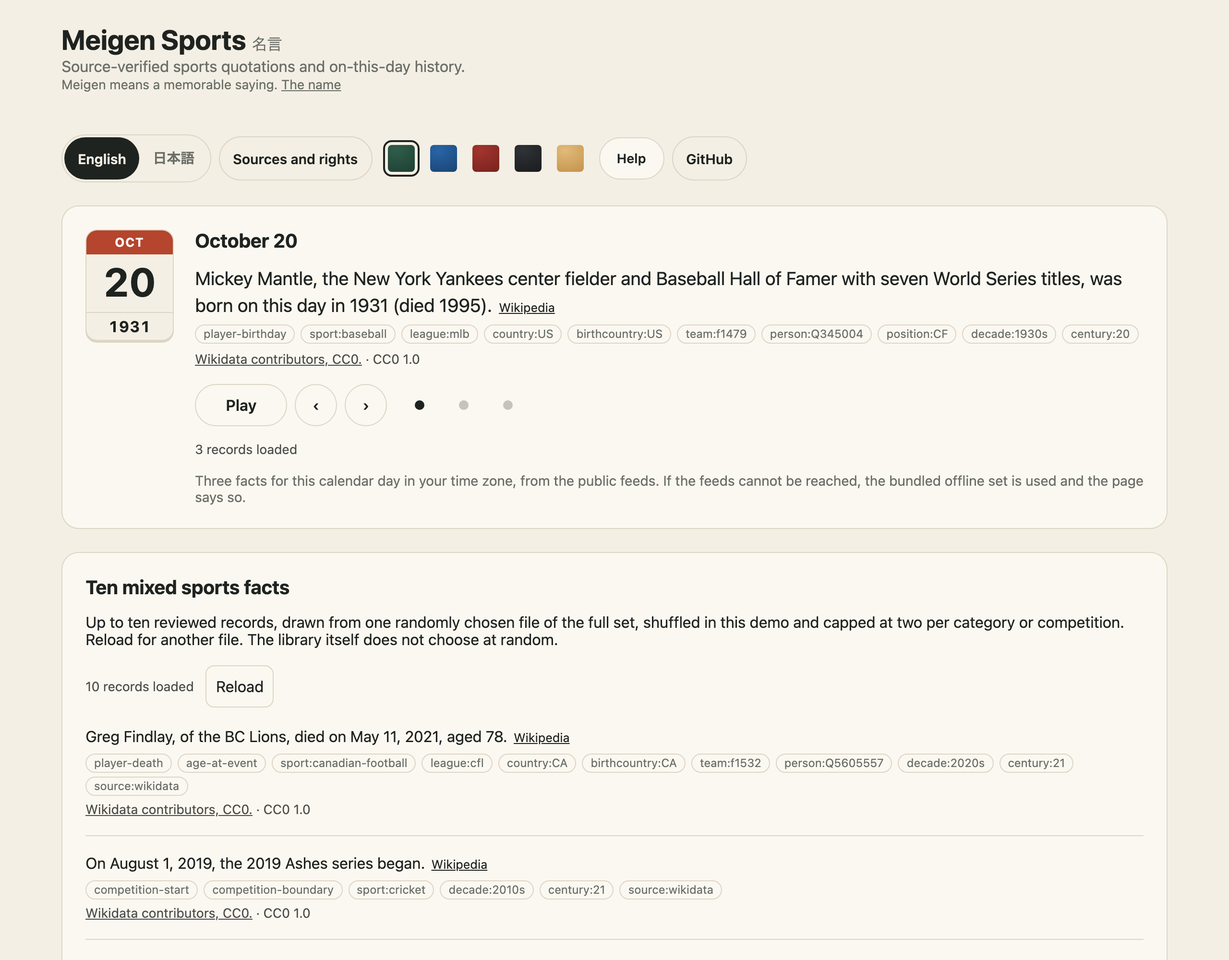
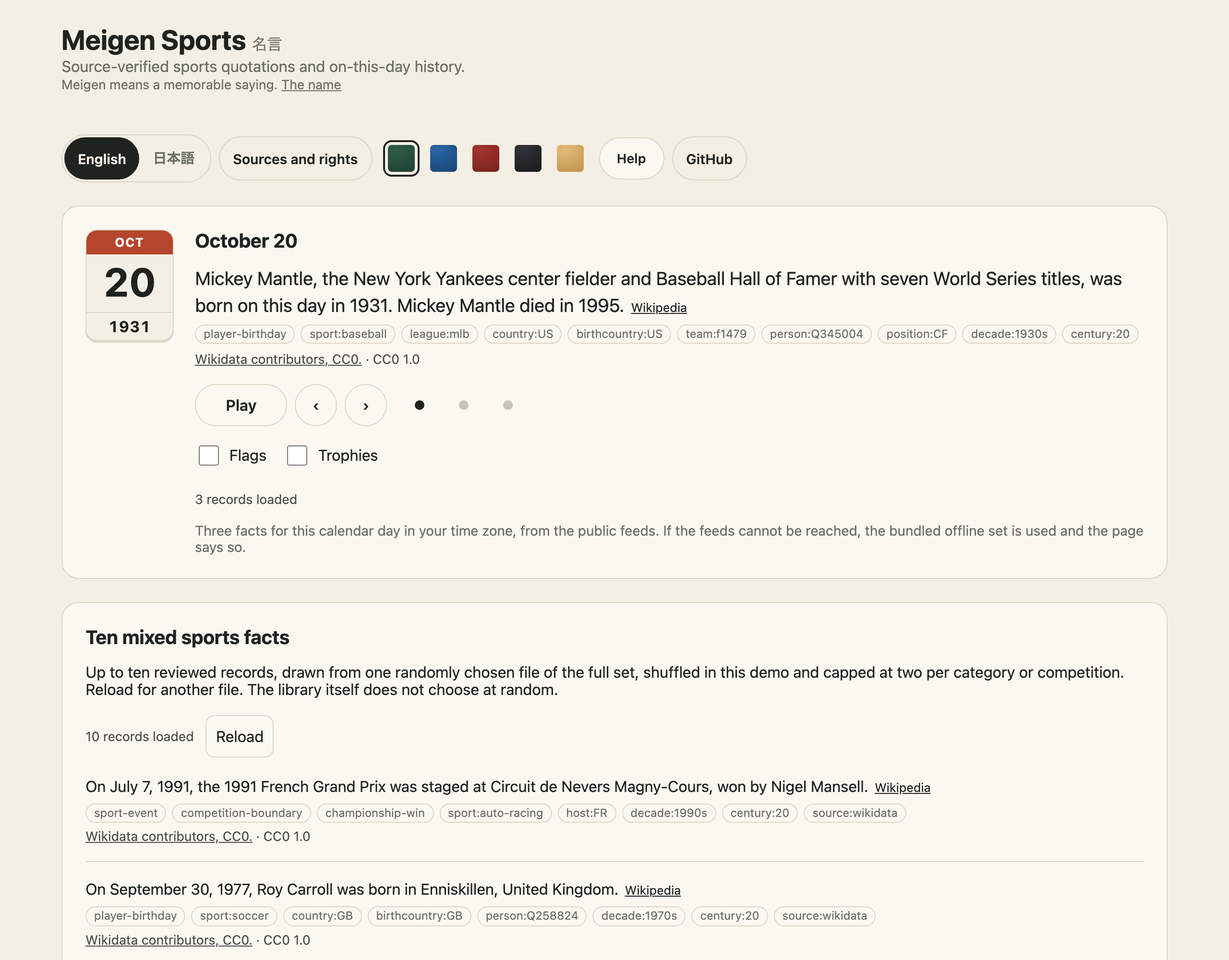
feat(demo): flags and trophies beside a fact
Two switches on the card, kept in the address, draw the flag of the fact's country where the data says it is unambiguous and the very trophy where the emblem set has a likeness. Both packages are devDependencies of the demo.

Changed region(s): [[0.0625, 0.465, 0.9375, 0.992], [0.3125, 0.31, 0.5625, 0.341]]

diff --git a/scripts/page.ts b/scripts/page.ts
@@ -4,8 +4,8 @@ const id = "meigen-sports";
 const latest = JSON.parse(readFileSync(new URL("../data/v1/latest.json", import.meta.url), "utf8")) as { factRecords: number; offlineRecords: number };
 const facts = latest.factRecords.toLocaleString("en-US"), offline = latest.offlineRecords.toLocaleString("en-US");
 export const WORDS = {
- en: { pitch: "Source-verified sports quotations and on-this-day history.", name: "Meigen means a memorable saying.", nameLink: "The name", foot: "MIT code. Source data retains its own rights and attribution.", heading: "Words and moments from sporting history", intro: "Choose a day and a sport. Explore verified historical passages and original captions based on open sporting facts.", sourceNote: `All ${facts} on-this-day facts load from the public feeds on GitHub Pages as each view needs them, and they cover every calendar day. The package also bundles an offline set of ${offline} of the best facts, three to five for every day, so "today" works with no network. Source text is English. Coverage gaps are shown honestly; no modern quotation is invented or silently licensed.`, todayIntro: `Three facts for this calendar day in your time zone, from the public feeds. If the feeds cannot be reached, the bundled offline set is used and the page says so.`, offlineNotice: `The public feeds could not be reached, so the bundled offline set ({n} facts) is shown.`, todayFew: `There are fewer than three facts for this day.`, todayPause: "Pause", todayPlay: "Play", todayNext: "Next fact", todayPrev: "Previous fact", todayDots: "Facts for this day", todayDot: "Fact {n}", date: "Calendar date", advancedFilters: "Filter by source and record type", includeSource: "Include source", excludeSource: "Exclude source", allSources: "All sources", includeType: "Include record type", excludeType: "Exclude record type", allTypes: "All types", none: "None", sport: "Sport", allSports: "All sports", mode: "Data source", bundled: `Bundled offline set`, staticFiles: `Public feeds (full set)`, find: "Find", quoteHeading: "A quotation for this date", historyHeading: "On this day", useHeading: "Use the same data in your project", useText: "Pure selectors take a date as an argument. The offline set is bundled in the package; the full set is static files served by GitHub, so readers need no database key, but those files need a network.", manifest: "Feed manifest", download: `Download the offline set`, sources: "Sources and rights", emptyQuote: "No verified quotation matches this sport in the starter collection.", emptyHistory: "No exact-day historical fact is available for this selection yet.", error: `The feed could not be loaded. Try the bundled offline set.`, results: "records loaded", randomHeading: "Ten mixed sports facts", randomIntro: `Up to ten reviewed records, drawn from one randomly chosen file of the full set, shuffled in this demo and capped at two per category or competition. Reload for another file. The library itself does not choose at random.`, randomReload: "Reload", randomError: "The local feed could not be loaded.", favHeading: "My favourites", favIntro: "Combine sport, league, history tag, country, decade, award, honour and years, a club or a person picked by name, and the day above. A fact must match every choice, and each choice is in the address, so the view can be sent.", favLeague: "League", favCategory: "History tag", favFrom: "From year", favTo: "To year", favTeam: "Team franchise id", favPlayer: "Player id", favFind: "Show favourites", favEmpty: "No sourced fact matches these filters yet.", favAllTags: "All tags", favAny: "Any", favCountry: "Country", favDecade: "Decade", favAward: "Award or trophy", favHonour: "Honour", favTeamName: "Club", favPerson: "Person", favOnlyDay: "Only the day chosen above", favSearchTeam: "Type a club's name", favSearchPerson: "Type a first or last name", favShown: "Showing {m} of {n}", wikipedia: "Wikipedia", wikipediaEn: "Wikipedia", wikidata: "Wikidata", "honour-award-winner": "Award winner", "honour-champion": "Champion", "honour-hall-of-fame": "Hall of Famer", eventsHeading: "The day's events, across sports", eventsIntro: "Competitions that began or ended on the chosen day, and events held on it, up to forty, at most three of one sport, from Wikidata (CC0), with the place and the winner where Wikidata states them. Choosing a sport above keeps only its events.", peopleHeading: "The day's people, across sports", peopleIntro: "Births and deaths of sports people on the chosen day, up to forty, at most three of one sport, from Wikidata (CC0). Choosing a sport above keeps only its people.", showcaseHeading: "Death anniversaries and NHL career records", showcaseIntro: "Birthdays of deceased people use anniversary wording. Missing a death date never means someone is living, so the feed never says “turns 70”. NHL career goal and assist records are derived from DS1 statistics only when the source licence is public; nhl_api rows stay unpublished.", original: "Original source", tennis: "Tennis", boxing: "Boxing", wrestling: "Wrestling", "professional-wrestling": "Professional wrestling", soccer: "Soccer", cricket: "Cricket", baseball: "Baseball", basketball: "Basketball", "american-football": "American football", "ice-hockey": "Ice hockey", "multi-sport": "Olympic and multi-sport events", athletics: "Athletics" },
- ja: { pitch: "出典を確認したスポーツの引用と、過去の今日の出来事。", name: "名言は、心に残る優れた言葉を意味します。", nameLink: "名前について", foot: "コードはMITライセンスです。データには各出典の権利と表示条件が適用されます。", heading: "スポーツの歴史を言葉と出来事から", intro: "日付と競技を選び、出典を確認した昔の文章や、公開された事実に基づく出来事を探せます。", sourceNote: `「過去の今日」の事実${facts}件はすべて、GitHub Pagesの公開フィードから画面ごとに必要な分だけ読み込み、すべての日をカバーします。パッケージには、ネットワークなしでも「今日」が動くよう、各日3〜5件の厳選した事実${offline}件も同梱しています。原文は英語で表示します。未収録の日はそのまま示し、現代の発言を創作したり、権利を確認しないまま使ったりしません。`, todayIntro: `お使いの地域の今日の日付について、公開フィードから事実を最大3件示します。フィードに接続できないときは同梱のオフライン版を使い、その旨を表示します。`, offlineNotice: `公開フィードに接続できなかったため、同梱のオフライン版（{n}件）を表示しています。`, todayFew: `この日の事実は3件未満です。`, todayPause: "一時停止", todayPlay: "再生", todayNext: "次の出来事", todayPrev: "前の出来事", todayDots: "この日の出来事", todayDot: "{n}件目", date: "日付", advancedFilters: "出典と記録の種類で絞り込む", includeSource: "含める出典", excludeSource: "除外する出典", allSources: "すべての出典", includeType: "含める記録の種類", excludeType: "除外する記録の種類", allTypes: "すべての種類", none: "なし", sport: "競技", allSports: "すべての競技", mode: "データの取得方法", bundled: `同梱のオフライン版`, staticFiles: `公開フィード（全データ）`, find: "探す", quoteHeading: "この日付に選んだ言葉", historyHeading: "過去の今日", useHeading: "自分のプロジェクトで使う", useText: "日付を引数として渡します。オフライン版はパッケージに同梱されています。全データはGitHubが配信する静的ファイルで、データベースの鍵は不要ですが、ネットワークが必要です。", manifest: "データ一覧", download: `オフライン版を取得`, sources: "出典と権利", emptyQuote: "この競技に合う確認済みの引用は、初期データにまだありません。", emptyHistory: "この条件に合う、日付の確認できた出来事はまだありません。", error: `データを取得できませんでした。同梱のオフライン版をお試しください。`, results: "件を読み込みました", randomHeading: "混ぜたスポーツの記録を10件", randomIntro: `全データを分けたファイルから1つを無作為に選び、確認済みの記録を最大10件、この画面で混ぜて表示します。同じ種類や大会からは最大2件です。再読み込みで別のファイルから選び直します。ライブラリ自身は乱数を使いません。`, randomReload: "再読み込み", randomError: "同梱の公開データを取得できませんでした。", favHeading: "お気に入り", favIntro: "競技、リーグ、履歴タグ、国、年代、賞、栄誉、年のほか、名前で選んだチームや人物、上で選んだ日を組み合わせて絞り込めます。表示されるのは、すべての条件に合う事実だけです。選んだ条件はURLに残るので、この画面をそのまま共有できます。", favLeague: "リーグ", favCategory: "履歴タグ", favFrom: "開始年", favTo: "終了年", favTeam: "チームのフランチャイズ ID", favPlayer: "選手 ID", favFind: "お気に入りを見る", favEmpty: "この条件に合う、出典のある事実はまだありません。", favAllTags: "すべてのタグ", favAny: "指定なし", favCountry: "国", favDecade: "年代", favAward: "賞・トロフィー", favHonour: "栄誉", favTeamName: "チーム", favPerson: "人物", favOnlyDay: "上で選んだ日の出来事だけ", favSearchTeam: "チーム名を入力", favSearchPerson: "姓または名（英字）を入力", favShown: "{n}件中{m}件を表示", wikipedia: "ウィキペディア", wikipediaEn: "ウィキペディア（英語版）", wikidata: "ウィキデータ", "honour-award-winner": "受賞者", "honour-champion": "優勝経験者", "honour-hall-of-fame": "殿堂入り", eventsHeading: "この日の大会・試合（競技をまたいで）", eventsIntro: "選んだ日に始まった、または終わった大会と、その日に行われた試合・大会を、最大40件、同じ競技は3件まで表示します。出典は Wikidata（CC0）で、開催地と勝者は Wikidata に記載があるときだけ示します。上で競技を選ぶと、その競技のものだけを表示します。", peopleHeading: "この日の人物（競技をまたいで）", peopleIntro: "選んだ日に生まれた、または亡くなったスポーツ選手などを、最大40人、同じ競技は3人まで表示します。出典は Wikidata（CC0）です。上で競技を選ぶと、その競技の人物だけを表示します。", showcaseHeading: "死去の記念日と NHL の通算記録", showcaseIntro: "故人の誕生日は記念日の言い方です。死去日が無いことを存命とはせず、「70歳になる」とは言いません。NHL の通算得点・アシスト記録は、出典のライセンスが公開可能なときだけ DS1 の統計から導きます。nhl_api の行は公開しません。", original: "原文の出典", tennis: "テニス", boxing: "ボクシング", wrestling: "レスリング", "professional-wrestling": "プロレス", soccer: "サッカー", cricket: "クリケット", baseball: "野球", basketball: "バスケットボール", "american-football": "アメリカンフットボール", "ice-hockey": "アイスホッケー", "multi-sport": "五輪・総合競技大会", athletics: "陸上" },
+ en: { pitch: "Source-verified sports quotations and on-this-day history.", name: "Meigen means a memorable saying.", nameLink: "The name", foot: "MIT code. Source data retains its own rights and attribution.", heading: "Words and moments from sporting history", intro: "Choose a day and a sport. Explore verified historical passages and original captions based on open sporting facts.", sourceNote: `All ${facts} on-this-day facts load from the public feeds on GitHub Pages as each view needs them, and they cover every calendar day. The package also bundles an offline set of ${offline} of the best facts, three to five for every day, so "today" works with no network. Source text is English. Coverage gaps are shown honestly; no modern quotation is invented or silently licensed.`, todayIntro: `Three facts for this calendar day in your time zone, from the public feeds. If the feeds cannot be reached, the bundled offline set is used and the page says so.`, offlineNotice: `The public feeds could not be reached, so the bundled offline set ({n} facts) is shown.`, todayFew: `There are fewer than three facts for this day.`, todayPause: "Pause", todayPlay: "Play", todayNext: "Next fact", todayPrev: "Previous fact", todayDots: "Facts for this day", todayDot: "Fact {n}", date: "Calendar date", advancedFilters: "Filter by source and record type", includeSource: "Include source", excludeSource: "Exclude source", allSources: "All sources", includeType: "Include record type", excludeType: "Exclude record type", allTypes: "All types", none: "None", sport: "Sport", allSports: "All sports", mode: "Data source", bundled: `Bundled offline set`, staticFiles: `Public feeds (full set)`, find: "Find", quoteHeading: "A quotation for this date", historyHeading: "On this day", useHeading: "Use the same data in your project", useText: "Pure selectors take a date as an argument. The offline set is bundled in the package; the full set is static files served by GitHub, so readers need no database key, but those files need a network.", manifest: "Feed manifest", download: `Download the offline set`, sources: "Sources and rights", emptyQuote: "No verified quotation matches this sport in the starter collection.", emptyHistory: "No exact-day historical fact is available for this selection yet.", error: `The feed could not be loaded. Try the bundled offline set.`, results: "records loaded", randomHeading: "Ten mixed sports facts", randomIntro: `Up to ten reviewed records, drawn from one randomly chosen file of the full set, shuffled in this demo and capped at two per category or competition. Reload for another file. The library itself does not choose at random.`, randomReload: "Reload", randomError: "The local feed could not be loaded.", favHeading: "My favourites", favIntro: "Combine sport, league, history tag, country, decade, award, honour and years, a club or a person picked by name, and the day above. A fact must match every choice, and each choice is in the address, so the view can be sent.", favLeague: "League", favCategory: "History tag", favFrom: "From year", favTo: "To year", favTeam: "Team franchise id", favPlayer: "Player id", favFind: "Show favourites", favEmpty: "No sourced fact matches these filters yet.", favAllTags: "All tags", favAny: "Any", favCountry: "Country", favDecade: "Decade", favAward: "Award or trophy", favHonour: "Honour", favTeamName: "Club", favPerson: "Person", favOnlyDay: "Only the day chosen above", favSearchTeam: "Type a club's name", favSearchPerson: "Type a first or last name", favShown: "Showing {m} of {n}", optFlags: "Flags", optTrophies: "Trophies", wikipedia: "Wikipedia", wikipediaEn: "Wikipedia", wikidata: "Wikidata", "honour-award-winner": "Award winner", "honour-champion": "Champion", "honour-hall-of-fame": "Hall of Famer", eventsHeading: "The day's events, across sports", eventsIntro: "Competitions that began or ended on the chosen day, and events held on it, up to forty, at most three of one sport, from Wikidata (CC0), with the place and the winner where Wikidata states them. Choosing a sport above keeps only its events.", peopleHeading: "The day's people, across sports", peopleIntro: "Births and deaths of sports people on the chosen day, up to forty, at most three of one sport, from Wikidata (CC0). Choosing a sport above keeps only its people.", showcaseHeading: "Death anniversaries and NHL career records", showcaseIntro: "Birthdays of deceased people use anniversary wording. Missing a death date never means someone is living, so the feed never says “turns 70”. NHL career goal and assist records are derived from DS1 statistics only when the source licence is public; nhl_api rows stay unpublished.", original: "Original source", tennis: "Tennis", boxing: "Boxing", wrestling: "Wrestling", "professional-wrestling": "Professional wrestling", soccer: "Soccer", cricket: "Cricket", baseball: "Baseball", basketball: "Basketball", "american-football": "American football", "ice-hockey": "Ice hockey", "multi-sport": "Olympic and multi-sport events", athletics: "Athletics" },
+ ja: { pitch: "出典を確認したスポーツの引用と、過去の今日の出来事。", name: "名言は、心に残る優れた言葉を意味します。", nameLink: "名前について", foot: "コードはMITライセンスです。データには各出典の権利と表示条件が適用されます。", heading: "スポーツの歴史を言葉と出来事から", intro: "日付と競技を選び、出典を確認した昔の文章や、公開された事実に基づく出来事を探せます。", sourceNote: `「過去の今日」の事実${facts}件はすべて、GitHub Pagesの公開フィードから画面ごとに必要な分だけ読み込み、すべての日をカバーします。パッケージには、ネットワークなしでも「今日」が動くよう、各日3〜5件の厳選した事実${offline}件も同梱しています。原文は英語で表示します。未収録の日はそのまま示し、現代の発言を創作したり、権利を確認しないまま使ったりしません。`, todayIntro: `お使いの地域の今日の日付について、公開フィードから事実を最大3件示します。フィードに接続できないときは同梱のオフライン版を使い、その旨を表示します。`, offlineNotice: `公開フィードに接続できなかったため、同梱のオフライン版（{n}件）を表示しています。`, todayFew: `この日の事実は3件未満です。`, todayPause: "一時停止", todayPlay: "再生", todayNext: "次の出来事", todayPrev: "前の出来事", todayDots: "この日の出来事", todayDot: "{n}件目", date: "日付", advancedFilters: "出典と記録の種類で絞り込む", includeSource: "含める出典", excludeSource: "除外する出典", allSources: "すべての出典", includeType: "含める記録の種類", excludeType: "除外する記録の種類", allTypes: "すべての種類", none: "なし", sport: "競技", allSports: "すべての競技", mode: "データの取得方法", bundled: `同梱のオフライン版`, staticFiles: `公開フィード（全データ）`, find: "探す", quoteHeading: "この日付に選んだ言葉", historyHeading: "過去の今日", useHeading: "自分のプロジェクトで使う", useText: "日付を引数として渡します。オフライン版はパッケージに同梱されています。全データはGitHubが配信する静的ファイルで、データベースの鍵は不要ですが、ネットワークが必要です。", manifest: "データ一覧", download: `オフライン版を取得`, sources: "出典と権利", emptyQuote: "この競技に合う確認済みの引用は、初期データにまだありません。", emptyHistory: "この条件に合う、日付の確認できた出来事はまだありません。", error: `データを取得できませんでした。同梱のオフライン版をお試しください。`, results: "件を読み込みました", randomHeading: "混ぜたスポーツの記録を10件", randomIntro: `全データを分けたファイルから1つを無作為に選び、確認済みの記録を最大10件、この画面で混ぜて表示します。同じ種類や大会からは最大2件です。再読み込みで別のファイルから選び直します。ライブラリ自身は乱数を使いません。`, randomReload: "再読み込み", randomError: "同梱の公開データを取得できませんでした。", favHeading: "お気に入り", favIntro: "競技、リーグ、履歴タグ、国、年代、賞、栄誉、年のほか、名前で選んだチームや人物、上で選んだ日を組み合わせて絞り込めます。表示されるのは、すべての条件に合う事実だけです。選んだ条件はURLに残るので、この画面をそのまま共有できます。", favLeague: "リーグ", favCategory: "履歴タグ", favFrom: "開始年", favTo: "終了年", favTeam: "チームのフランチャイズ ID", favPlayer: "選手 ID", favFind: "お気に入りを見る", favEmpty: "この条件に合う、出典のある事実はまだありません。", favAllTags: "すべてのタグ", favAny: "指定なし", favCountry: "国", favDecade: "年代", favAward: "賞・トロフィー", favHonour: "栄誉", favTeamName: "チーム", favPerson: "人物", favOnlyDay: "上で選んだ日の出来事だけ", favSearchTeam: "チーム名を入力", favSearchPerson: "姓または名（英字）を入力", favShown: "{n}件中{m}件を表示", optFlags: "国旗", optTrophies: "トロフィー", wikipedia: "ウィキペディア", wikipediaEn: "ウィキペディア（英語版）", wikidata: "ウィキデータ", "honour-award-winner": "受賞者", "honour-champion": "優勝経験者", "honour-hall-of-fame": "殿堂入り", eventsHeading: "この日の大会・試合（競技をまたいで）", eventsIntro: "選んだ日に始まった、または終わった大会と、その日に行われた試合・大会を、最大40件、同じ競技は3件まで表示します。出典は Wikidata（CC0）で、開催地と勝者は Wikidata に記載があるときだけ示します。上で競技を選ぶと、その競技のものだけを表示します。", peopleHeading: "この日の人物（競技をまたいで）", peopleIntro: "選んだ日に生まれた、または亡くなったスポーツ選手などを、最大40人、同じ競技は3人まで表示します。出典は Wikidata（CC0）です。上で競技を選ぶと、その競技の人物だけを表示します。", showcaseHeading: "死去の記念日と NHL の通算記録", showcaseIntro: "故人の誕生日は記念日の言い方です。死去日が無いことを存命とはせず、「70歳になる」とは言いません。NHL の通算得点・アシスト記録は、出典のライセンスが公開可能なときだけ DS1 の統計から導きます。nhl_api の行は公開しません。", original: "原文の出典", tennis: "テニス", boxing: "ボクシング", wrestling: "レスリング", "professional-wrestling": "プロレス", soccer: "サッカー", cricket: "クリケット", baseball: "野球", basketball: "バスケットボール", "american-football": "アメリカンフットボール", "ice-hockey": "アイスホッケー", "multi-sport": "五輪・総合競技大会", athletics: "陸上" },
 };
 export function renderIndex() {
  return readFileSync(new URL("../demo/index.html", import.meta.url), "utf8")

diff --git a/demo/marks.ts b/demo/marks.ts
@@ -1,0 +1,82 @@
+import { flagCode } from "@johnmorrisdotca/hata";
+import { flagName } from "@johnmorrisdotca/hata/names";
+import { flagOf } from "../src/index.ts";
+import type { OnThisDayRecord } from "../src/schema.ts";
+import { TROPHY_STANLEY_CUP } from "@johnmorrisdotca/dougu-sports/trophy/stanley-cup";
+import { TROPHY_HART_TROPHY } from "@johnmorrisdotca/dougu-sports/trophy/hart-trophy";
+import { TROPHY_VEZINA_TROPHY } from "@johnmorrisdotca/dougu-sports/trophy/vezina-trophy";
+import { TROPHY_NORRIS_TROPHY } from "@johnmorrisdotca/dougu-sports/trophy/norris-trophy";
+import { TROPHY_CALDER_TROPHY } from "@johnmorrisdotca/dougu-sports/trophy/calder-trophy";
+import { TROPHY_ART_ROSS_TROPHY } from "@johnmorrisdotca/dougu-sports/trophy/art-ross-trophy";
+import { TROPHY_CONN_SMYTHE_TROPHY } from "@johnmorrisdotca/dougu-sports/trophy/conn-smythe-trophy";
+import { TROPHY_LADY_BYNG_TROPHY } from "@johnmorrisdotca/dougu-sports/trophy/lady-byng-trophy";
+import { TROPHY_SELKE_TROPHY } from "@johnmorrisdotca/dougu-sports/trophy/selke-trophy";
+import { TROPHY_JENNINGS_TROPHY } from "@johnmorrisdotca/dougu-sports/trophy/jennings-trophy";
+import { TROPHY_MASTERTON_TROPHY } from "@johnmorrisdotca/dougu-sports/trophy/masterton-trophy";
+import { TROPHY_KING_CLANCY_TROPHY } from "@johnmorrisdotca/dougu-sports/trophy/king-clancy-trophy";
+import { TROPHY_JACK_ADAMS_TROPHY } from "@johnmorrisdotca/dougu-sports/trophy/jack-adams-trophy";
+import { TROPHY_ROCKET_RICHARD_TROPHY } from "@johnmorrisdotca/dougu-sports/trophy/rocket-richard-trophy";
+import { TROPHY_TED_LINDSAY_AWARD } from "@johnmorrisdotca/dougu-sports/trophy/ted-lindsay-award";
+import { TROPHY_LOMBARDI_TROPHY } from "@johnmorrisdotca/dougu-sports/trophy/lombardi-trophy";
+import { TROPHY_LARRY_OBRIEN_TROPHY } from "@johnmorrisdotca/dougu-sports/trophy/larry-obrien-trophy";
+import { TROPHY_COMMISSIONERS_TROPHY } from "@johnmorrisdotca/dougu-sports/trophy/commissioners-trophy";
+import { TROPHY_GREY_CUP } from "@johnmorrisdotca/dougu-sports/trophy/grey-cup";
+import { TROPHY_CY_YOUNG_AWARD } from "@johnmorrisdotca/dougu-sports/trophy/cy-young-award";
+import { TROPHY_MLB_MVP_AWARD } from "@johnmorrisdotca/dougu-sports/trophy/mlb-mvp-award";
+import { TROPHY_SILVER_SLUGGER_AWARD } from "@johnmorrisdotca/dougu-sports/trophy/silver-slugger-award";
+import { TROPHY_WORLD_SERIES_MVP_TROPHY } from "@johnmorrisdotca/dougu-sports/trophy/world-series-mvp-trophy";
+import { TROPHY_OBRIEN_CUP } from "@johnmorrisdotca/dougu-sports/trophy/obrien-cup";
+import { TROPHY_GOLD_GLOVE_AWARD } from "@johnmorrisdotca/dougu-sports/trophy/gold-glove-award";
+import { TROPHY_CUP } from "@johnmorrisdotca/dougu-sports/trophy/cup";
+
+/**
+ * The demo's two small marks beside a fact: the flag of its country, only where the data says it is unambiguous (`flagOf`) and the flag set has one, and the
+ * trophy it is about (`trophy`, an id of the emblem set), drawn as that very trophy where the set has a likeness and as its plain cup where it has none.
+ * Both are the demo's own choice: the library holds a code and an id, and draws nothing. The packages are devDependencies of the demo, bundled into demo.js.
+ */
+const TROPHIES: Record<string, { svg: (options?: { size?: number; title?: string | false }) => string }> = {
+  "trophy:stanley-cup": TROPHY_STANLEY_CUP,
+  "trophy:hart-trophy": TROPHY_HART_TROPHY,
+  "trophy:vezina-trophy": TROPHY_VEZINA_TROPHY,
+  "trophy:norris-trophy": TROPHY_NORRIS_TROPHY,
+  "trophy:calder-trophy": TROPHY_CALDER_TROPHY,
+  "trophy:art-ross-trophy": TROPHY_ART_ROSS_TROPHY,
+  "trophy:conn-smythe-trophy": TROPHY_CONN_SMYTHE_TROPHY,
+  "trophy:lady-byng-trophy": TROPHY_LADY_BYNG_TROPHY,
+  "trophy:selke-trophy": TROPHY_SELKE_TROPHY,
+  "trophy:jennings-trophy": TROPHY_JENNINGS_TROPHY,
+  "trophy:masterton-trophy": TROPHY_MASTERTON_TROPHY,
+  "trophy:king-clancy-trophy": TROPHY_KING_CLANCY_TROPHY,
+  "trophy:jack-adams-trophy": TROPHY_JACK_ADAMS_TROPHY,
+  "trophy:rocket-richard-trophy": TROPHY_ROCKET_RICHARD_TROPHY,
+  "trophy:ted-lindsay-award": TROPHY_TED_LINDSAY_AWARD,
+  "trophy:lombardi-trophy": TROPHY_LOMBARDI_TROPHY,
+  "trophy:larry-obrien-trophy": TROPHY_LARRY_OBRIEN_TROPHY,
+  "trophy:commissioners-trophy": TROPHY_COMMISSIONERS_TROPHY,
+  "trophy:grey-cup": TROPHY_GREY_CUP,
+  "trophy:cy-young-award": TROPHY_CY_YOUNG_AWARD,
+  "trophy:mlb-mvp-award": TROPHY_MLB_MVP_AWARD,
+  "trophy:silver-slugger-award": TROPHY_SILVER_SLUGGER_AWARD,
+  "trophy:world-series-mvp-trophy": TROPHY_WORLD_SERIES_MVP_TROPHY,
+  "trophy:obrien-cup": TROPHY_OBRIEN_CUP,
+  "trophy:gold-glove-award": TROPHY_GOLD_GLOVE_AWARD,
+  "trophy:cup": TROPHY_CUP,
+};
+
+export interface FlagMark { readonly code: string; readonly src: string; readonly name: string }
+
+/** The flag of a fact, a file under `flags/` (copied from Hata by scripts/site.ts), or null when the fact has no unambiguous flag or Hata has none for it. */
+export function flagMark(fact: OnThisDayRecord, lang: "en" | "ja"): FlagMark | null {
+  const wanted = flagOf(fact);
+  const code = wanted ? flagCode(wanted) : null;
+  if (!code) return null;
+  return { code, src: `flags/${code.toLowerCase()}.svg`, name: flagName(code, lang) ?? code };
+}
+
+/** The trophy of a fact as SVG, or null when it has none; `exact` says whether it is that trophy's own likeness (false: the plain cup). */
+export function trophyMark(fact: OnThisDayRecord, size = 34): { svg: string; exact: boolean } | null {
+  const id = fact.trophy;
+  const emblem = id ? TROPHIES[id] : undefined;
+  if (!id || !emblem) return null;
+  return { svg: emblem.svg({ size }), exact: id !== "trophy:cup" };
+}

diff --git a/e2e/marks.demo.ts b/e2e/marks.demo.ts
@@ -1,0 +1,79 @@
+// The flag and the trophy beside a fact: off until the reader asks (two switches on the card, kept in the address), clickable while the card turns, drawn from the data's own
+// code and id, in the reader's language, and never a flag where the data does not say one.
+import { expect, test, type Page } from "@playwright/test";
+
+const GRETZKY = "person=Q209518&pname=Wayne%20Gretzky";
+const inView = (page: Page, selector: string) =>
+  page.evaluate((query) => {
+    const box = document.querySelector(query)?.getBoundingClientRect();
+    return box !== undefined && box.y >= 0 && box.y + Math.min(box.height, 60) <= window.innerHeight;
+  }, selector);
+
+test("the switches are in the first screen and off at first; the address turns each on", async ({ page }) => {
+  await page.goto(`/?lang=en&${GRETZKY}`);
+  await expect(page.locator("#today-facts .record")).toHaveCount(3);
+  expect(await inView(page, '[data-testid="today-options"]')).toBe(true);
+  await expect(page.locator("#opt-flags")).not.toBeChecked();
+  await expect(page.locator("#opt-trophies")).not.toBeChecked();
+  await expect(page.locator("#fav-facts [data-testid=flag]").first()).toBeHidden();
+  await page.goto(`/?lang=en&flags=1&trophies=1&${GRETZKY}`);
+  await expect(page.locator("#opt-flags")).toBeChecked();
+  await expect(page.locator("#opt-trophies")).toBeChecked();
+});
+
+test("Gretzky has Canada's flag, drawn from the data, and the Hart Trophy", async ({ page }) => {
+  const errors: string[] = [];
+  page.on("pageerror", (error) => errors.push(error.message));
+  await page.goto(`/?lang=en&flags=1&trophies=1&${GRETZKY}`);
+  const flag = page.locator("#fav-facts [data-testid=flag]").first();
+  await expect(flag).toBeVisible();
+  await expect(flag).toHaveAttribute("data-code", "CA");
+  await expect(flag).toHaveAttribute("src", "flags/ca.svg");
+  await expect(flag).toHaveAttribute("alt", "Canada");
+  await expect.poll(() => flag.evaluate((img: HTMLImageElement) => img.complete && img.naturalWidth > 0)).toBe(true);
+  const trophy = page.locator("#fav-facts [data-testid=trophy]").first();
+  await expect(trophy).toBeVisible();
+  await expect(trophy).toHaveAttribute("data-id", "trophy:hart-trophy");
+  await expect(trophy.locator("svg")).toBeVisible();
+  expect(errors).toEqual([]);
+  // In Japanese the flag is named in Japanese.
+  await page.goto(`/?lang=ja&flags=1&${GRETZKY}`);
+  await expect(page.locator("#fav-facts [data-testid=flag]").first()).toHaveAttribute("alt", "カナダ");
+});
+
+test("a trophy with no likeness is the plain cup, and a fact with no award has none", async ({ page }) => {
+  await page.goto("/?lang=en&trophies=1&award=nba-sixth-man-of-the-year-award");
+  await expect(page.locator("#fav-facts .record").first()).toBeVisible();
+  const trophies = page.locator("#fav-facts [data-testid=trophy]");
+  const ids = await trophies.evaluateAll((all) => all.map((el) => (el as HTMLElement).dataset.id));
+  expect(ids.length).toBeGreaterThan(0);
+  // A Sixth Man has no likeness in the set: his plain cup, or the title he won (a likeness) when he won one.
+  for (const id of ids) expect(["trophy:cup", "trophy:larry-obrien-trophy"]).toContain(id);
+  expect(ids).toContain("trophy:cup");
+  await expect(page.locator("#fav-facts [data-testid=trophy][data-id='trophy:cup']").first()).toHaveClass(/generic/);
+  // A game has a flag when its two teams are of one country, and no trophy.
+  await page.goto("/?lang=en&flags=1&trophies=1&tag=game-on-day");
+  await expect(page.locator("#fav-facts .record").first()).toBeVisible();
+  expect(await page.locator("#fav-facts [data-testid=trophy]").count()).toBe(0);
+});
+
+test.describe("a reader who has not asked for less motion", () => {
+test.use({ reducedMotion: "no-preference" });
+test("the switches work while the card turns, and the card keeps going", async ({ page }) => {
+  await page.goto("/?lang=en&gap=400&play=1");
+  await expect(page.locator("#today-facts .record")).toHaveCount(3);
+  await expect(page.locator('[data-testid="today-play"]')).toHaveAttribute("aria-pressed", "true");
+  const seen = new Set<number>();
+  const current = () => page.evaluate(() => [...document.querySelectorAll("#today-dots button")].findIndex((dot) => dot.getAttribute("aria-current") === "true"));
+  await page.locator("#opt-flags").check();
+  await expect(page).toHaveURL(/flags=1/);
+  await page.locator("#opt-trophies").check();
+  await expect(page).toHaveURL(/trophies=1/);
+  await expect(page.locator("html")).toHaveAttribute("data-flags", "on");
+  await expect.poll(async () => { seen.add(await current()); return seen.size; }, { timeout: 8000 }).toBe(3);
+  await expect(page.locator('[data-testid="today-play"]')).toHaveAttribute("aria-pressed", "true");
+  await page.locator("#opt-flags").uncheck();
+  await expect(page).not.toHaveURL(/flags=1/);
+  await expect(page.locator("html")).toHaveAttribute("data-flags", "off");
+});
+});

diff --git a/demo/demo.ts b/demo/demo.ts
@@ -3,6 +3,7 @@ import { quotes } from "../src/data/quotes.ts";
 import { OFFLINE_BUILD, offline } from "../src/data/offline.ts";
 import { loadFactDay, loadFactEventsDay, loadFactPeopleDay, loadFactShard, loadShard } from "../src/load.ts";
 import { startExplore } from "./explore.ts";
+import { flagMark, trophyMark } from "./marks.ts";
 import type { OnThisDayRecord } from "../src/schema.ts";
 import { pickVariedFacts } from "./variety.ts";
 import type { MeigenRecord } from "../src/types.ts";
@@ -94,6 +95,14 @@ function drawFacts(box: HTMLElement, records: readonly OnThisDayRecord[], asOf?:
     const article = document.createElement("article"); article.className = "record";
     if (fact.eventDate) article.dataset.year = fact.eventDate.slice(0, 4);
     const p = document.createElement("p");
+    // The flag of its country (where the data says it is unambiguous) and the trophy it is about: drawn always, shown by the two switches, so a switch redraws nothing.
+    const flag = flagMark(fact, locale), trophy = trophyMark(fact);
+    if (flag || trophy) {
+      const marks = document.createElement("span"); marks.className = "marks";
+      if (flag) { const img = document.createElement("img"); img.className = "mark-flag"; img.src = flag.src; img.alt = flag.name; img.title = flag.name; img.loading = "lazy"; img.dataset.testid = "flag"; img.dataset.code = flag.code; marks.append(img); }
+      if (trophy) { const span = document.createElement("span"); span.className = trophy.exact ? "mark-trophy" : "mark-trophy generic"; span.innerHTML = trophy.svg; span.dataset.testid = "trophy"; span.dataset.id = fact.trophy ?? ""; marks.append(span); }
+      p.append(marks);
+    }
     p.append(text);
     // A small link to the article about its person or event, in the reader's language (English, then Wikidata where there is none); a fact with no item has none.
     const url = wikipediaUrl(fact, locale);
@@ -132,6 +141,21 @@ const todayDots = document.querySelector<HTMLElement>("#today-dots")!;
 const leafMonth = document.querySelector<HTMLElement>("#leaf-month")!;
 const leafDay = document.querySelector<HTMLElement>("#leaf-day")!;
 const leafYear = document.querySelector<HTMLElement>("#leaf-year")!;
+// Flags and trophies beside the facts: two switches on the card, kept in the address (`?flags=1&trophies=1`), clickable while the card turns.
+const optFlags = document.querySelector<HTMLInputElement>("#opt-flags")!;
+const optTrophies = document.querySelector<HTMLInputElement>("#opt-trophies")!;
+optFlags.checked = addressed.get("flags") === "1"; optTrophies.checked = addressed.get("trophies") === "1";
+function applyMarks(keep: boolean) {
+  document.documentElement.dataset.flags = optFlags.checked ? "on" : "off";
+  document.documentElement.dataset.trophies = optTrophies.checked ? "on" : "off";
+  if (!keep) return;
+  const query = new URLSearchParams(location.search);
+  for (const [key, on] of [["flags", optFlags.checked], ["trophies", optTrophies.checked]] as const) { if (on) query.set(key, "1"); else query.delete(key); }
+  try { history.replaceState(null, "", `${location.pathname}${query.size ? `?${query}` : ""}${location.hash}`); } catch { /* the address stays as it is */ }
+}
+applyMarks(false);
+optFlags.addEventListener("change", () => applyMarks(true));
+optTrophies.addEventListener("change", () => applyMarks(true));
 let todayIndex = Math.max(0, Number.parseInt(addressed.get("fact") ?? "0", 10) || 0);
 let todayPlaying = !reducedMotion.matches && !addressed.has("fact") && addressed.get("play") === "1";
 /** True while the mouse is over the card: it plays, and leaving stops it. */

diff --git a/demo/index.html b/demo/index.html
@@ -2,7 +2,7 @@
 <html lang="en"><head><!--family:head--><link rel="stylesheet" href="family.css"><link rel="stylesheet" href="site.css"></head>
 <body><main><!--family:header--><!--family:unreviewed-->
 <p id="feed-note" class="status" role="status" aria-live="polite"></p>
-<section class="panel today-panel today-card" aria-labelledby="today-heading"><div class="leaf" aria-hidden="true"><span class="leaf-month" id="leaf-month"></span><span class="leaf-day" id="leaf-day"></span><span class="leaf-year" id="leaf-year" data-testid="leaf-year"></span></div><div class="today-main"><h2 id="today-heading"></h2><div id="today-facts" class="today-facts" data-testid="today-facts"></div><div class="today-bar" data-testid="today-bar"><button type="button" id="today-play" data-testid="today-play" aria-pressed="false"></button><button type="button" id="today-prev" data-testid="today-prev" data-say-label="todayPrev"></button><button type="button" id="today-next" data-testid="today-next" data-say-label="todayNext"></button><span id="today-dots" class="today-dots" role="group" data-say-label="todayDots"></span></div><p id="today-status" class="status" role="status" aria-live="polite"></p><p class="today-intro" data-say="todayIntro"></p></div></section>
+<section class="panel today-panel today-card" aria-labelledby="today-heading"><div class="leaf" aria-hidden="true"><span class="leaf-month" id="leaf-month"></span><span class="leaf-day" id="leaf-day"></span><span class="leaf-year" id="leaf-year" data-testid="leaf-year"></span></div><div class="today-main"><h2 id="today-heading"></h2><div id="today-facts" class="today-facts" data-testid="today-facts"></div><div class="today-bar" data-testid="today-bar"><button type="button" id="today-play" data-testid="today-play" aria-pressed="false"></button><button type="button" id="today-prev" data-testid="today-prev" data-say-label="todayPrev"></button><button type="button" id="today-next" data-testid="today-next" data-say-label="todayNext"></button><span id="today-dots" class="today-dots" role="group" data-say-label="todayDots"></span></div><div class="today-options" data-testid="today-options"><label><input type="checkbox" id="opt-flags"><span data-say="optFlags"></span></label><label><input type="checkbox" id="opt-trophies"><span data-say="optTrophies"></span></label></div><p id="today-status" class="status" role="status" aria-live="polite"></p><p class="today-intro" data-say="todayIntro"></p></div></section>
 <section class="panel random-panel"><h2 data-say="randomHeading"></h2><p data-say="randomIntro"></p>
 <div class="fam-row random-actions"><p id="random-status" class="status" role="status" aria-live="polite"></p><button type="button" id="random-reload" data-say="randomReload"></button></div>
 <div id="random-facts"></div></section>

diff --git a/scripts/site.ts b/scripts/site.ts
@@ -1,10 +1,21 @@
-import { cpSync, mkdirSync, rmSync, writeFileSync, readFileSync } from "node:fs";
+import { cpSync, existsSync, mkdirSync, rmSync, writeFileSync, readFileSync } from "node:fs";
 import { build } from "esbuild";
 import { renderIndex, renderSources } from "./page.ts";
 rmSync("site", { recursive: true, force: true }); mkdirSync("site", { recursive: true });
 writeFileSync("site/index.html", renderIndex());
 for (const file of ["family.css", "site.css"]) cpSync(`demo/${file}`, `site/${file}`);
 cpSync("data", "site/data", { recursive: true }); cpSync("LICENSES", "site/LICENSES", { recursive: true });
+// The flags the demo draws beside a fact (`?flags=1`): Hata's own SVG files, for every country the facts name, and Hata's notice with them.
+mkdirSync("site/flags", { recursive: true });
+const hata = await import("@johnmorrisdotca/hata");
+const vocabulary = JSON.parse(readFileSync("data/v1/0.1.0/facts/index/vocabulary.json", "utf8")) as { countries: Record<string, number> };
+const wanted = new Set<string>();
+for (const code of [...Object.keys(vocabulary.countries), "GB-ENG", "GB-SCT", "GB-WLS"]) { const own = hata.flagCode(code); if (own) wanted.add(own.toLowerCase()); }
+let copied = 0;
+for (const code of wanted) if (existsSync(`node_modules/@johnmorrisdotca/hata/dist/svg/${code}.svg`)) { cpSync(`node_modules/@johnmorrisdotca/hata/dist/svg/${code}.svg`, `site/flags/${code}.svg`); copied += 1; }
+cpSync("node_modules/@johnmorrisdotca/hata/NOTICE.md", "site/flags/NOTICE.md");
+cpSync("node_modules/@johnmorrisdotca/hata/LICENSE", "site/flags/LICENSE");
+console.log(`Copied ${copied} flags from Hata.`);
 writeFileSync("site/.nojekyll", "");
 writeFileSync("site/sources.html", renderSources(readFileSync("NOTICE.md", "utf8")));
 await build({ entryPoints: ["demo/demo.ts"], outfile: "site/demo.js", bundle: true, format: "esm", target: "es2022", minify: true });

diff --git a/demo/site.css b/demo/site.css
@@ -40,3 +40,16 @@
 @media(max-width:680px){.filter-grid{grid-template-columns:minmax(0,1fr)}.fav-panel select,.feed-filters select{width:100%}}
 .today-facts .tags{flex-wrap:nowrap;overflow-x:auto;scrollbar-width:thin;padding-bottom:2px}.today-facts .tag{white-space:nowrap;flex:none}
 .fav-panel select,.feed-filters select{width:100%}.filter-grid .fam-row>label{width:100%}
+/* 0.10.0: the flag and the trophy beside a fact, shown by two switches on the card. */
+.marks{display:inline-flex;align-items:center;gap:.5em;margin-right:.6em;vertical-align:middle}
+.mark-flag{height:1.05em;width:auto;max-width:1.9em;border-radius:2px;box-shadow:0 0 0 1px var(--rule);object-fit:contain}
+.mark-trophy{display:inline-flex;width:1.9em;height:1.9em;vertical-align:middle}.mark-trophy svg{width:100%;height:100%}
+.mark-trophy.generic{opacity:.85}
+html:not([data-flags="on"]) .mark-flag{display:none}
+html:not([data-trophies="on"]) .mark-trophy{display:none}
+html:not([data-flags="on"]):not([data-trophies="on"]) .marks{display:none}
+html[data-flags="on"]:not([data-trophies="on"]) .marks:not(:has(.mark-flag)),html[data-trophies="on"]:not([data-flags="on"]) .marks:not(:has(.mark-trophy)){display:none}
+.today-options{display:flex;flex-wrap:wrap;gap:4px 18px;margin-top:8px}
+.today-options label{display:inline-flex;align-items:center;gap:8px;min-height:44px;cursor:pointer}
+.today-options input{width:1.3em;height:1.3em;min-height:0;accent-color:var(--ink)}
+.today-facts .record p:first-child .marks{margin-right:.6em}

diff --git a/scripts/dev.ts b/scripts/dev.ts
@@ -4,7 +4,7 @@ import { extname, resolve, sep } from "node:path";
 import process from "node:process";
 const port = Number(process.env.PORT ?? 7400); if (!Number.isInteger(port) || port < 7400 || port > 7499) throw new Error("Port must be in 7400–7499");
 const root = resolve("site");
-const types: Record<string, string> = { ".html": "text/html; charset=utf-8", ".js": "text/javascript", ".css": "text/css", ".json": "application/json", ".txt": "text/plain" };
+const types: Record<string, string> = { ".html": "text/html; charset=utf-8", ".js": "text/javascript", ".css": "text/css", ".json": "application/json", ".txt": "text/plain", ".svg": "image/svg+xml", ".md": "text/markdown; charset=utf-8" };
 createServer(async (req, res) => {
  try { const path = decodeURIComponent(new URL(req.url ?? "/", "http://localhost").pathname); const file = resolve(root, `.${path === "/" ? "/index.html" : path}`);
  if (!file.startsWith(`${root}${sep}`)) { res.writeHead(403).end(); return; }

diff --git a/scripts/screenshots.ts b/scripts/screenshots.ts
@@ -36,6 +36,15 @@ try {
   await page.screenshot({ path: `${output}/${shot.name}.png`, fullPage: false });
   await page.close();
  }
+ // The flag and the trophy beside a fact (`?flags=1&trophies=1`): Wayne Gretzky's facts in the favourites, in English, on a desk.
+ {
+  const page = await browser.newPage({ viewport: { width: 1280, height: 900 }, deviceScaleFactor: 2, reducedMotion: "reduce" });
+  await page.goto(`http://127.0.0.1:${port}/?lang=en&flags=1&trophies=1&country=CA&award=hart-memorial-trophy&decade=1960s`);
+  await page.locator("#fav-facts .record").first().waitFor();
+  await page.locator("#fav-facts [data-testid=flag]").first().evaluate((img: HTMLImageElement) => img.decode());
+  await page.locator("#fav-facts").first().screenshot({ path: `${output}/marks-desktop.png` });
+  await page.close();
+ }
  console.log(`Screenshots written to ${output}`);
 } finally {
  await browser?.close();

diff --git a/docs/demo.md b/docs/demo.md
@@ -1,6 +1,6 @@
 # The demo
 
-The demo is at <https://johnmorrisdotca.github.io/meigen-sports/>: today's facts as a calendar card, ten mixed facts, the showcase, favourites by sport, league, tag, years, team or player, and a date, sport and source picker for a quotation and the facts of any day, in English and Japanese. Its pictures:
+The demo is at <https://johnmorrisdotca.github.io/meigen-sports/>: today's facts as a calendar card, ten mixed facts, the showcase, favourites by sport, league, tag, country, decade, award, honour, years, a club or a person picked by name, and a day, with a flag and a trophy beside a fact when you ask (`?flags=1&trophies=1`), and a date, sport and source picker for a quotation and the facts of any day, in English and Japanese. Its pictures:
 
 <p align="center">
 <img alt="The Meigen Sports demo on a desk: a date, a sport, a quotation and on-this-day facts." src="images/hero-desktop.png" width="720">
@@ -16,3 +16,9 @@ The demo is at <https://johnmorrisdotca.github.io/meigen-sports/>: today's facts
 </td>
 </tr>
 </table>
+
+<p align="center">
+<img alt="Facts of Canada's Hart Memorial Trophy winners in the favourites, each with Canada's flag, the Hart Trophy and the facts' tags under the sentence." src="images/marks-desktop.png" width="720"><br><em>A flag and a trophy beside each fact (<code>?flags=1&amp;trophies=1</code>).</em>
+</p>
+
+Every choice in the favourites is in the address (`?country=RO&decade=1990s&person=Q209518&day=1`), so a view can be sent. The flag is drawn only where the data says it is unambiguous (`flagOf`) and [Hata](https://github.com/johnmorrisdotca/hata) has it; the trophy is the very trophy where [Dougu Sports](https://github.com/johnmorrisdotca/dougu-sports) has a likeness and its plain cup where it has none ([which, in docs/tags.md](./tags.md#trophies)). Both are devDependencies of the demo: the library imports neither.

diff --git a/NOTICE.md b/NOTICE.md
@@ -24,3 +24,7 @@ Eight sports quotations are extracted from English Wikiquote athlete, coach and 
 - **openfootball contributors:** all 964 results in the 22 FIFA World Cup edition files (1930–2022) are included under its CC0-1.0 dedication. The source commit and original dedication are recorded in [LICENSES/OPENFOOTBALL-CC0.txt](./LICENSES/OPENFOOTBALL-CC0.txt).
 
 These notices describe the included seed only. They do not grant rights to future sources, uncollected records or third-party material beyond the terms of those sources. The archive, curation and public release workflow is not yet complete; see [docs/RESUME.md](./docs/RESUME.md).
+
+## The demo's flags and trophies
+
+The demo page (not the package) draws a flag and a trophy beside a fact when asked (`?flags=1&trophies=1`). The flags are `@johnmorrisdotca/hata` 1.7.2 (MIT code; each flag's source, author and licence are in that package's manifest and in `flags/NOTICE.md` beside the files on the demo), and the trophies are `@johnmorrisdotca/dougu-sports` 0.14.0 (MIT; drawings made for that package, with no lettering, logo or mark). Both are devDependencies of this repository: the published library imports neither.
